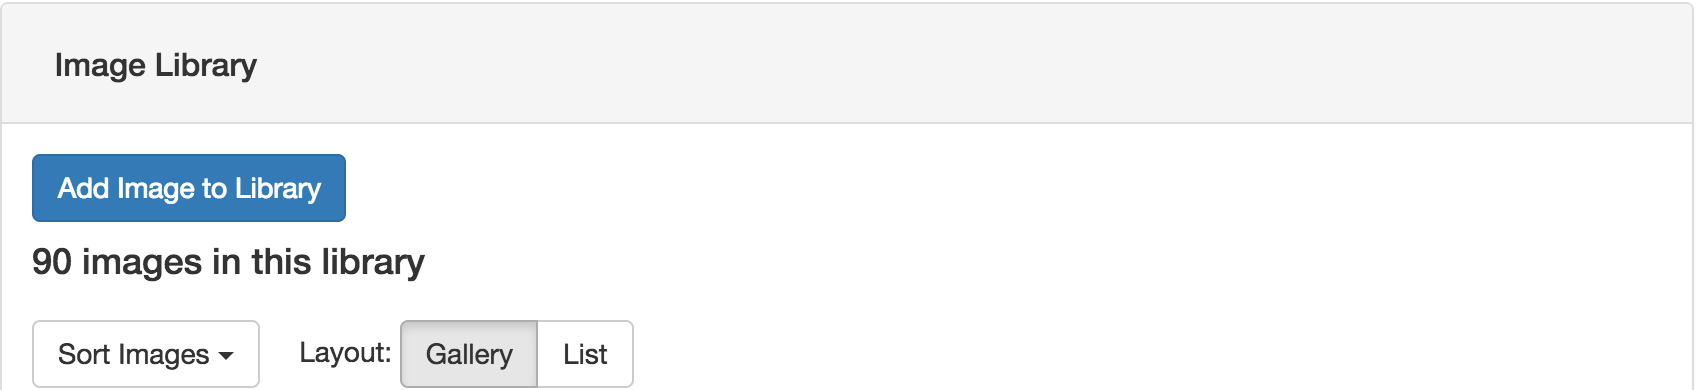
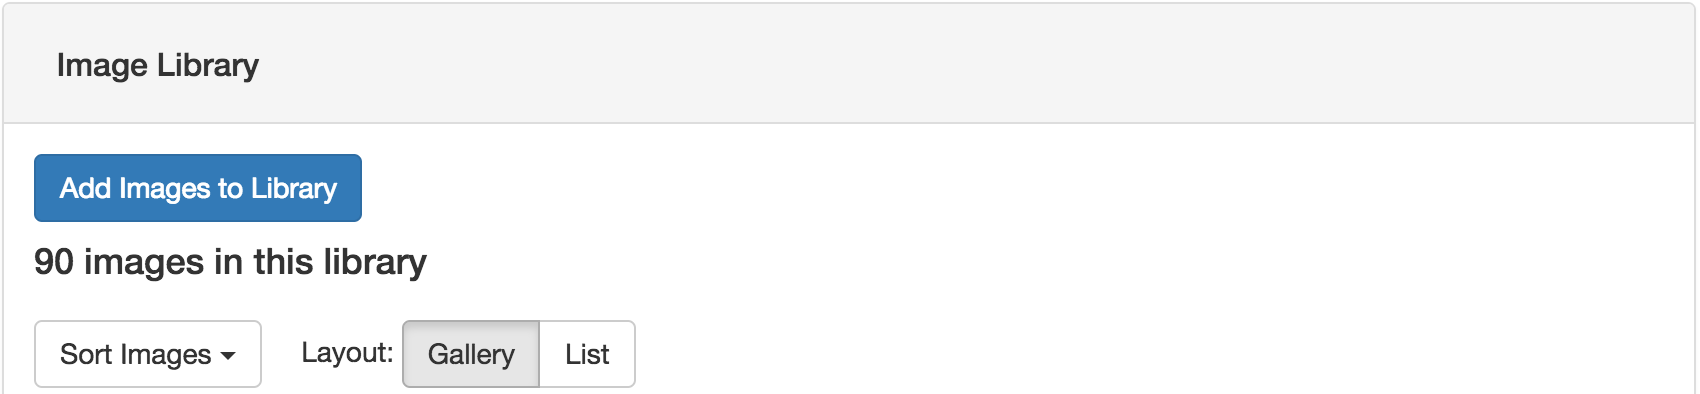
ATGU-581_MediaManagerAddImage - screen capture and UI code of proposed interface

diff --git a/ATGU-581_MediaManagerAddImage/index.html b/ATGU-581_MediaManagerAddImage/index.html
@@ -1,5 +1,6 @@
 
 <button type="button" class="btn btn-primary" ng-click="wc.hideAddImage = !wc.hideAddImage">
-      <!-- ngIf: wc.hideAddImage --><span ng-if="wc.hideAddImage" class="ng-scope">Add Image to Library</span><!-- end ngIf: wc.hideAddImage -->
+<!--UI comment - change Add Image to Add Images-->
+      <!-- ngIf: wc.hideAddImage --><span ng-if="wc.hideAddImage" class="ng-scope">Add Images to Library</span><!-- end ngIf: wc.hideAddImage -->
       <!-- ngIf: !wc.hideAddImage -->
     </button>
